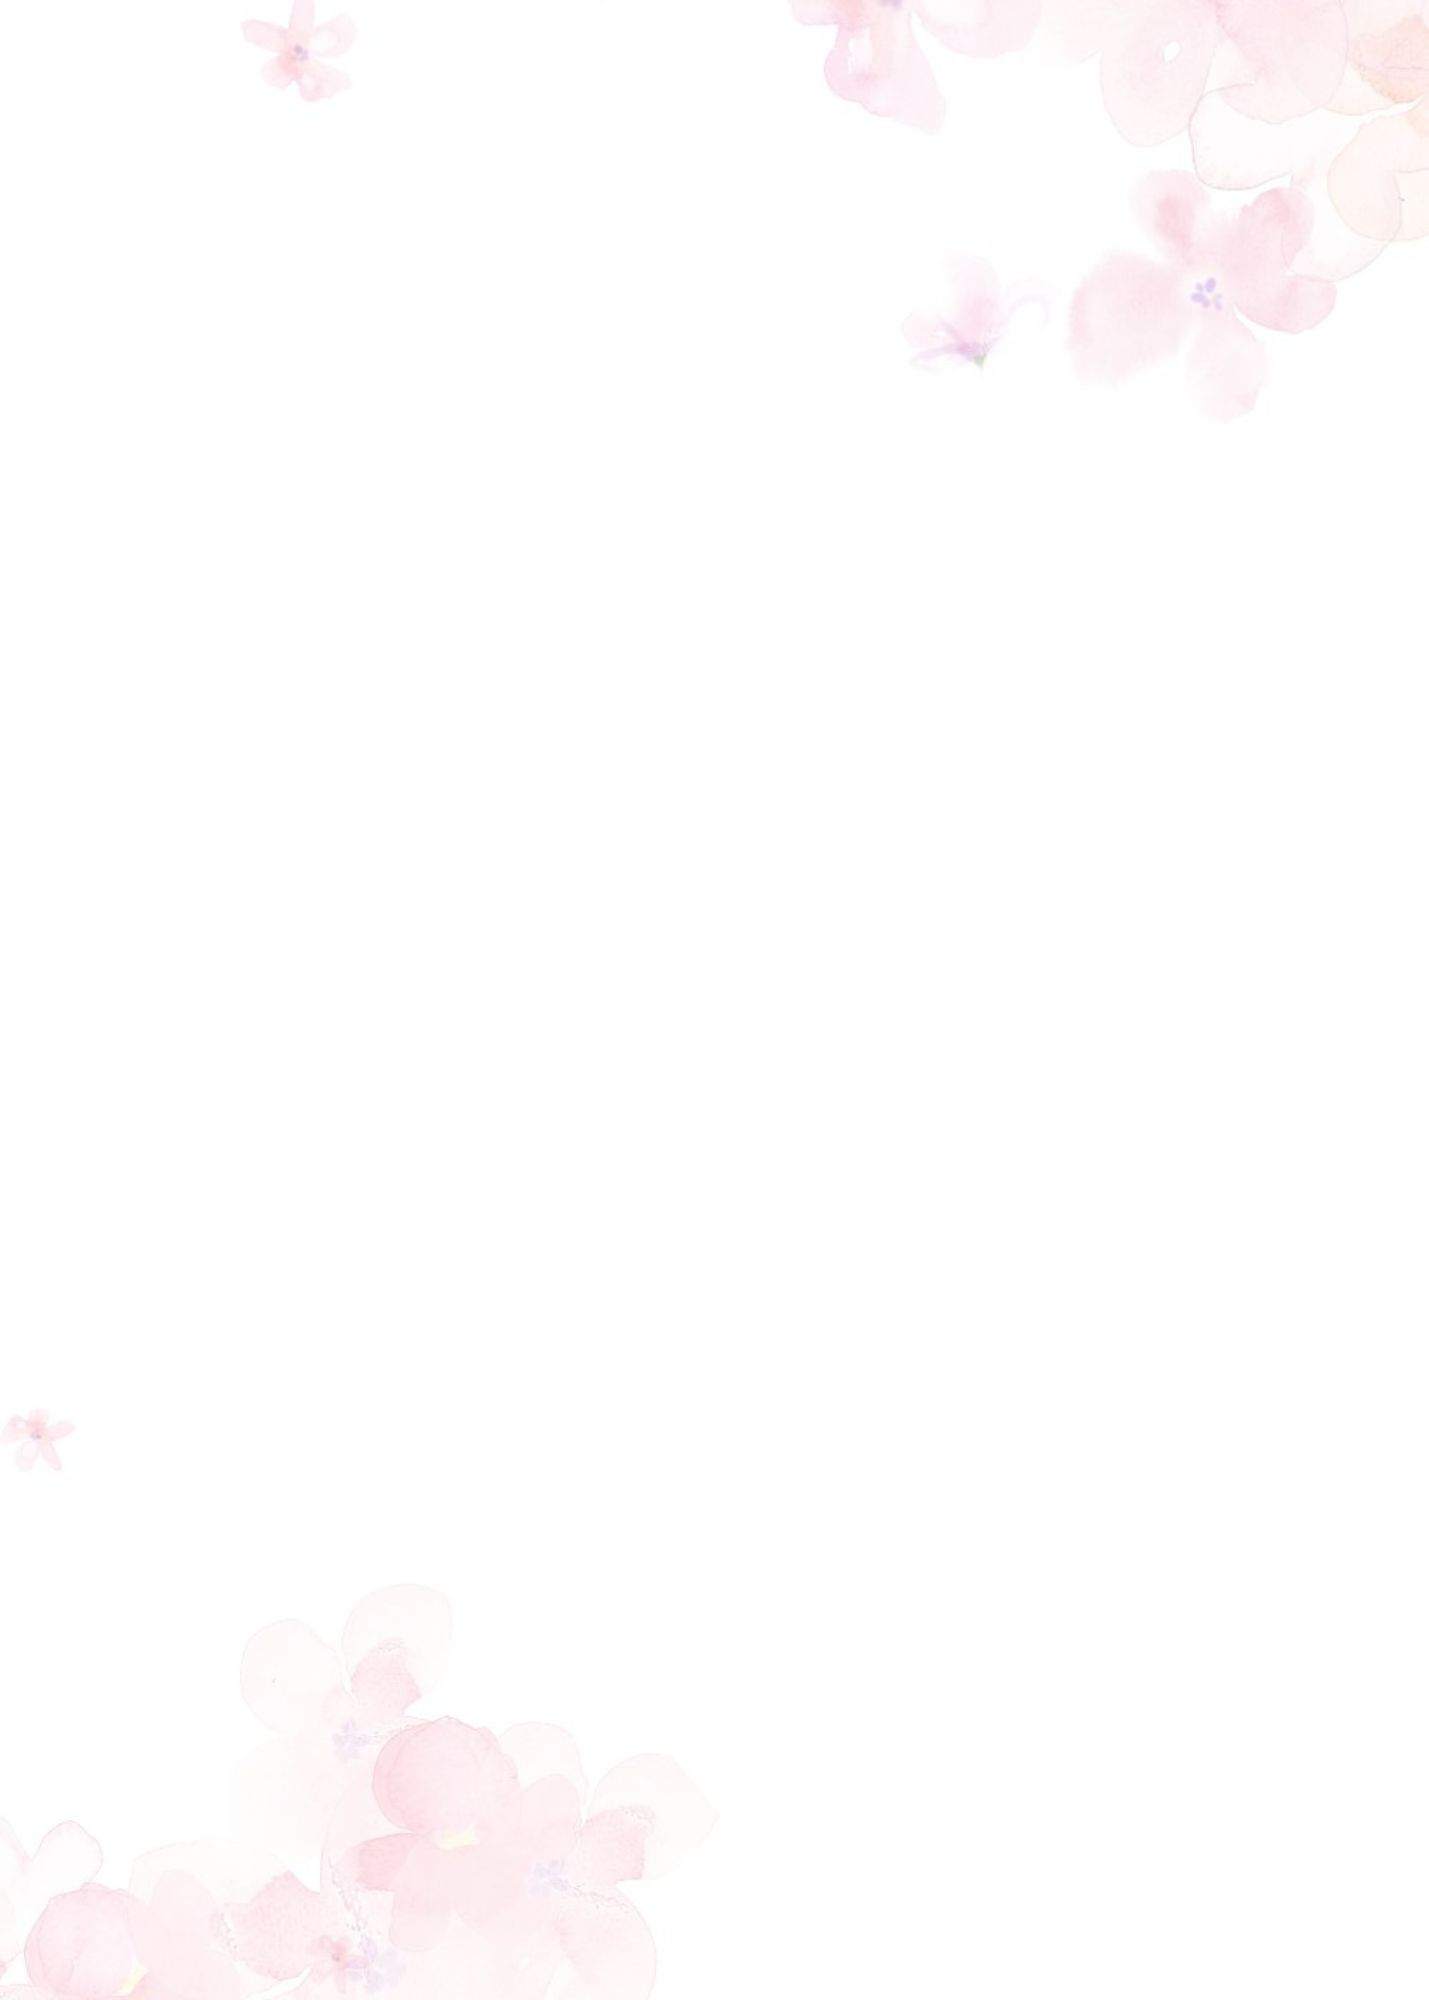
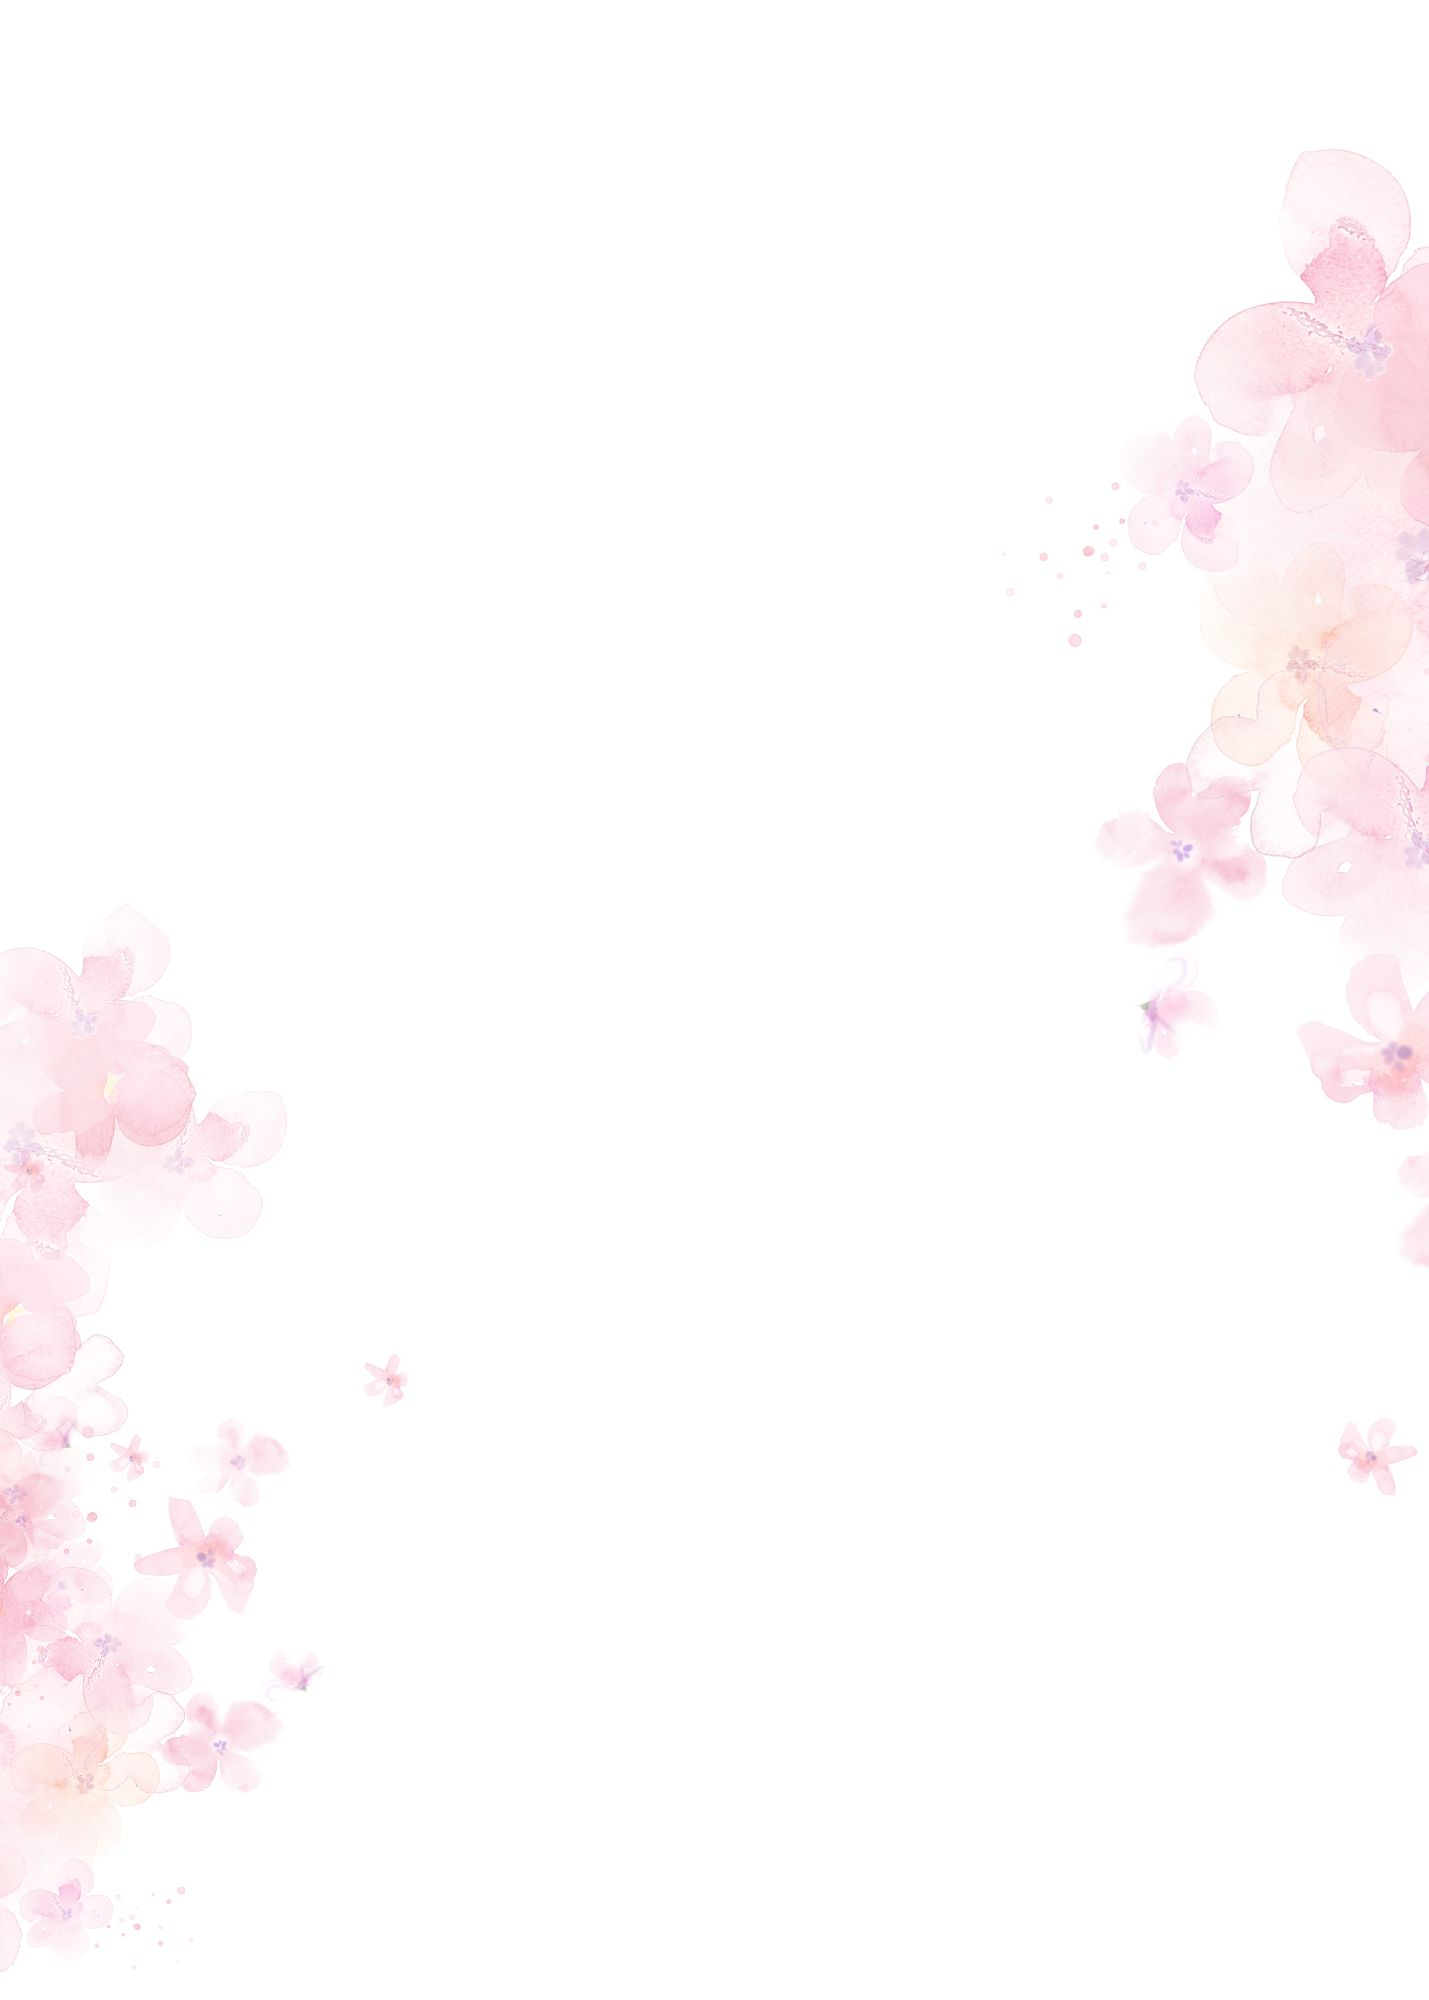
4

diff --git a/index.html b/index.html
@@ -13,6 +13,9 @@
 <link rel="preconnect" href="https://fonts.gstatic.com" crossorigin>
 <link rel="preconnect" href="https://fonts.googleapis.com">
 <link rel="preconnect" href="https://fonts.gstatic.com" crossorigin>
+<link rel="preconnect" href="https://fonts.googleapis.com">
+<link rel="preconnect" href="https://fonts.gstatic.com" crossorigin>
+<link href="https://fonts.googleapis.com/css2?family=Alex+Brush&family=Amatic+SC:wght@400;700&family=Bad+Script&family=Bebas+Neue&family=Calligraffitti&family=Covered+By+Your+Grace&family=EB+Garamond&family=Great+Vibes&family=Handlee&family=Inconsolata&family=Julius+Sans+One&family=Limelight&family=Lobster+Two&family=Major+Mono+Display&family=PT+Sans+Narrow&family=PT+Serif&family=Passions+Conflict&family=Patrick+Hand&family=Playfair+Display&family=Pompiere&family=Rancho&family=Roboto+Condensed:wght@300&family=Sacramento&family=Satisfy&family=Sofia+Sans+Extra+Condensed:wght@100&display=swap" rel="stylesheet">
 <link href="https://fonts.googleapis.com/css2?family=Alex+Brush&family=Amatic+SC:wght@400;700&family=Bad+Script&family=Bebas+Neue&family=Covered+By+Your+Grace&family=EB+Garamond&family=Great+Vibes&family=Handlee&family=Inconsolata&family=Julius+Sans+One&family=Lobster+Two&family=Major+Mono+Display&family=PT+Sans+Narrow&family=PT+Serif&family=Passions+Conflict&family=Patrick+Hand&family=Playfair+Display&family=Pompiere&family=Rancho&family=Roboto+Condensed:wght@300&family=Sacramento&family=Satisfy&family=Sofia+Sans+Extra+Condensed:wght@100&display=swap" rel="stylesheet">
 <link href="https://fonts.googleapis.com/css2?family=Amatic+SC:wght@400;700&family=Bad+Script&family=Bebas+Neue&family=Covered+By+Your+Grace&family=EB+Garamond&family=Great+Vibes&family=Handlee&family=Inconsolata&family=Julius+Sans+One&family=Lobster+Two&family=Major+Mono+Display&family=PT+Sans+Narrow&family=PT+Serif&family=Passions+Conflict&family=Patrick+Hand&family=Playfair+Display&family=Pompiere&family=Rancho&family=Roboto+Condensed:wght@300&family=Sacramento&family=Satisfy&family=Sofia+Sans+Extra+Condensed:wght@100&display=swap" rel="stylesheet">
 <link href="https://fonts.googleapis.com/css2?family=Alex+Brush&family=Amatic+SC:wght@400;700&family=Bad+Script&family=Bebas+Neue&family=Covered+By+Your+Grace&family=EB+Garamond&family=Great+Vibes&family=Handlee&family=Inconsolata&family=Julius+Sans+One&family=Lobster+Two&family=Major+Mono+Display&family=PT+Sans+Narrow&family=PT+Serif&family=Passions+Conflict&family=Patrick+Hand&family=Playfair+Display&family=Pompiere&family=Rancho&family=Roboto+Condensed:wght@300&family=Sacramento&family=Satisfy&family=Sofia+Sans+Extra+Condensed:wght@100&display=swap" rel="stylesheet">
@@ -63,8 +66,47 @@
   <div class="info">
     <img class="copas" src="./imagenes/salud.png" alt="">
     <h4>La Fiesta</h4>
-    
 </div>
+
+<div class="caja1">
+  <p class="parrafo_ubicacion"> Salón: Granja las Cabras <br> Calle H y los Platanos.   </p> 
+  <img class="mapa" src="./imagenes/ubicacion.png" alt="">
+  
+  <div class="boton_ubi">
+    <button class="click_Ubi" id="btn">Ver ubicación</button>
+  </div>
+</div>
+
+
+<div class="caja3">
+  <p>
+    <img class="regalo" src="./imagenes/regalo.png" alt="">
+    <p class="parrafo_deposito"> Tu presencia es lo más importante <br> pero si querés hacerme algún regalo <br> pueden hacerlo aquí </p>
+    <button class="btn_btn-primary" type="button" data-bs-toggle="collapse" data-bs-target="#collapseWidthExample" aria-expanded="false" aria-controls="collapseWidthExample ">
+     REGALOS
+    </button>
+  </p>
+  <div style="min-height: 120px;">
+    <div class="collapse collapse-horizontal" id="collapseWidthExample">
+      <div class="card_card-body" style="width: 300px;">
+      <p>Banco República. <br>Ariana <br> Eguren Da Silva <br>N° de cuenta: 110646081-00001 </p>
+
+    </div>
+  </div>
+</div>
+
+<main class="fondo_final">
+<br>
+  <h6 class="parrafo_esperamos"> Te espero</h6>
+
+  <img class="nombre_Ari" src="imagenes/NOMBRE.png" alt="">
+  <img class="corazones" src="./imagenes/CORAZONES.png" alt="">
+  <img class="gif" src="./imagenes/giphy.gif" alt="">
+  
+</main>
+
+
+
 
 
     

diff --git a/style.css b/style.css
@@ -177,7 +177,7 @@
         width: 35%;
         height: 20px;
         margin-left: 32%;
-        background: rgb(213, 136, 203);
+        background: #BC9293;
         color: #c876bf; 
         margin-top: -45%;
         
@@ -185,10 +185,6 @@
     .caja-audio{
       margin-top: -90%;
     }
-
-
-
-
 .fondo-flor{
   margin-top: 30%;
 }
@@ -197,15 +193,104 @@
   .info h4 {
    margin-top: -130%;
     text-align: center;
-    color: #979696;
+    font-family: 'Calligraffitti', cursive;
     font-size: 200%;
-    font-family: 'Great Vibes', cursive;
+    color: #6a6a6a;
   }
   .copas{
     width: 12%;
     margin-top: -215%;
     margin-left: 45%;
   }
-  
+  .parrafo_ubicacion{
+    font-family: 'Calligraffitti', cursive;
+      font-size: 16px;
+      font-weight: bold;
+      color: #6a6a6a;
+      text-align: center;
+      margin-top: -85%;
 
    }
+   .boton_ubi{
+    margin-top: -3%;
+   }
+   .click_Ubi{
+    padding: 2px 10px;
+    font-size: 18px;
+    margin-left: 29%;
+    text-decoration: none;
+    color: #ffffff;
+    border: 1px solid rgb(248, 220, 248);
+    border-radius: 1px;
+    font-family:'Julius Sans One', sans-serif; 
+    font-weight: bold;
+    background-color: #BC9293;
+    background-image: url(./imagenes/efecto.gif);
+    background-size: 60%;
+  }
+
+  .parrafo_deposito{
+    font-family: 'Calligraffitti', cursive;
+    font-size: 16px;
+    font-weight: bold;
+    color: #6a6a6a;
+    text-align: center;
+  
+  }
+  .btn_btn-primary{
+    padding: 2px 10px;
+    font-size: 18px;
+    margin-left: 36%;
+    text-decoration: none;
+    color: #ffffff;
+    border: 1px solid rgb(248, 220, 248);
+    border-radius: 1px;
+    font-family:'Julius Sans One', sans-serif; 
+    font-weight: bold;
+    background-color: #BC9293;
+    background-image: url(./imagenes/efecto.gif);
+    background-size: 60%;
+  }
+  .regalo{
+    margin-top: 5%;
+    width: 10%;
+    margin-left: 46%;
+  }
+  .card_card-body p{
+    font-family:'Julius Sans One', sans-serif; 
+    text-align: center;
+    color: #ffffff;
+    font-size: 14px;
+    background-color: #BC9293;
+    font-weight: bold;
+    margin-left: 25%;
+    padding: 5% 9%;
+  }
+main{
+background-image: url(./imagenes/fondofinal.png);
+background-size: 100%;
+
+}
+.parrafo_esperamos{
+  font-family: 'Calligraffitti', cursive;
+      font-size: 20px;
+      font-weight: bold;
+      color: #6a6a6a;
+      text-align: center;
+}
+.nombre_Ari{
+width: 42%;
+margin-left: 30%;
+margin-top: -5%;
+}
+.corazones{
+  width: 12%;
+  margin-left: 45%;
+  margin-top: -9%;
+}
+.gif{
+  width: 28%;
+  margin-left: 35%;
+  margin-top: -30%;
+}
+    }
